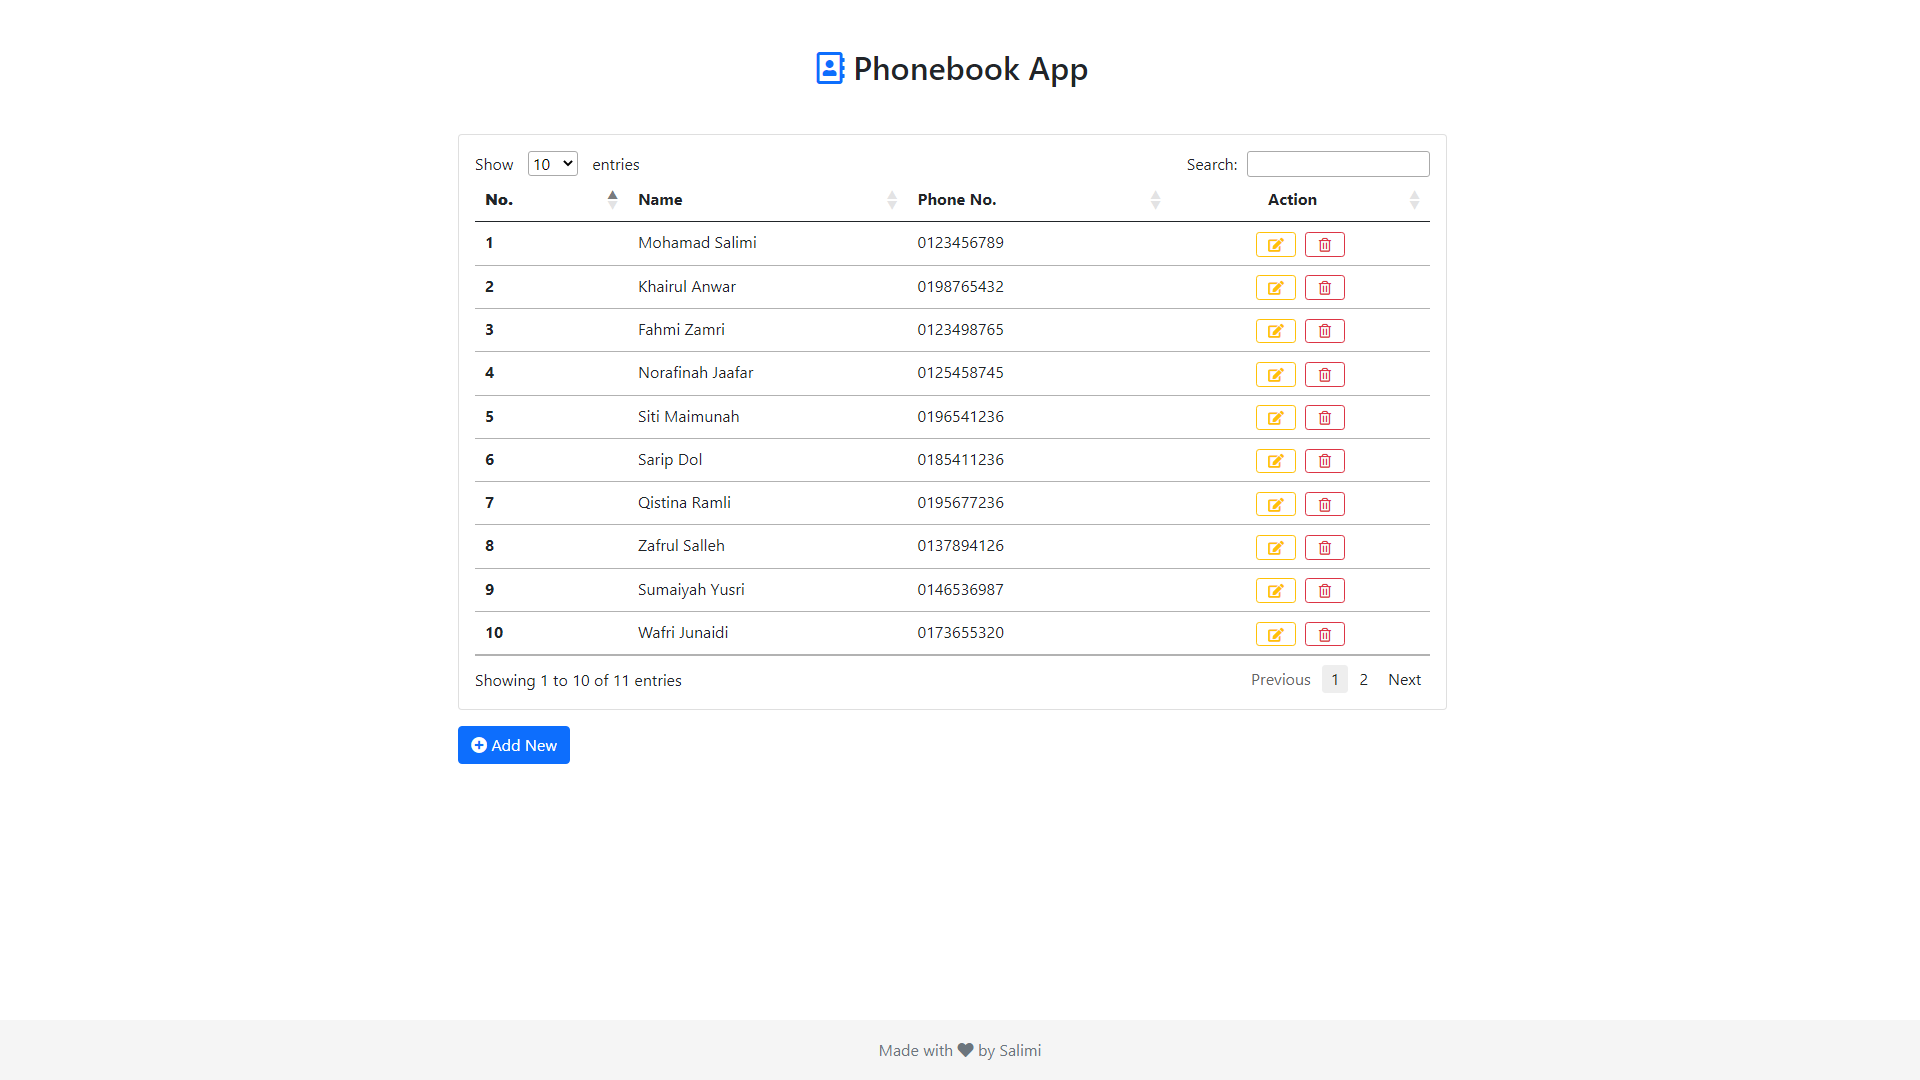
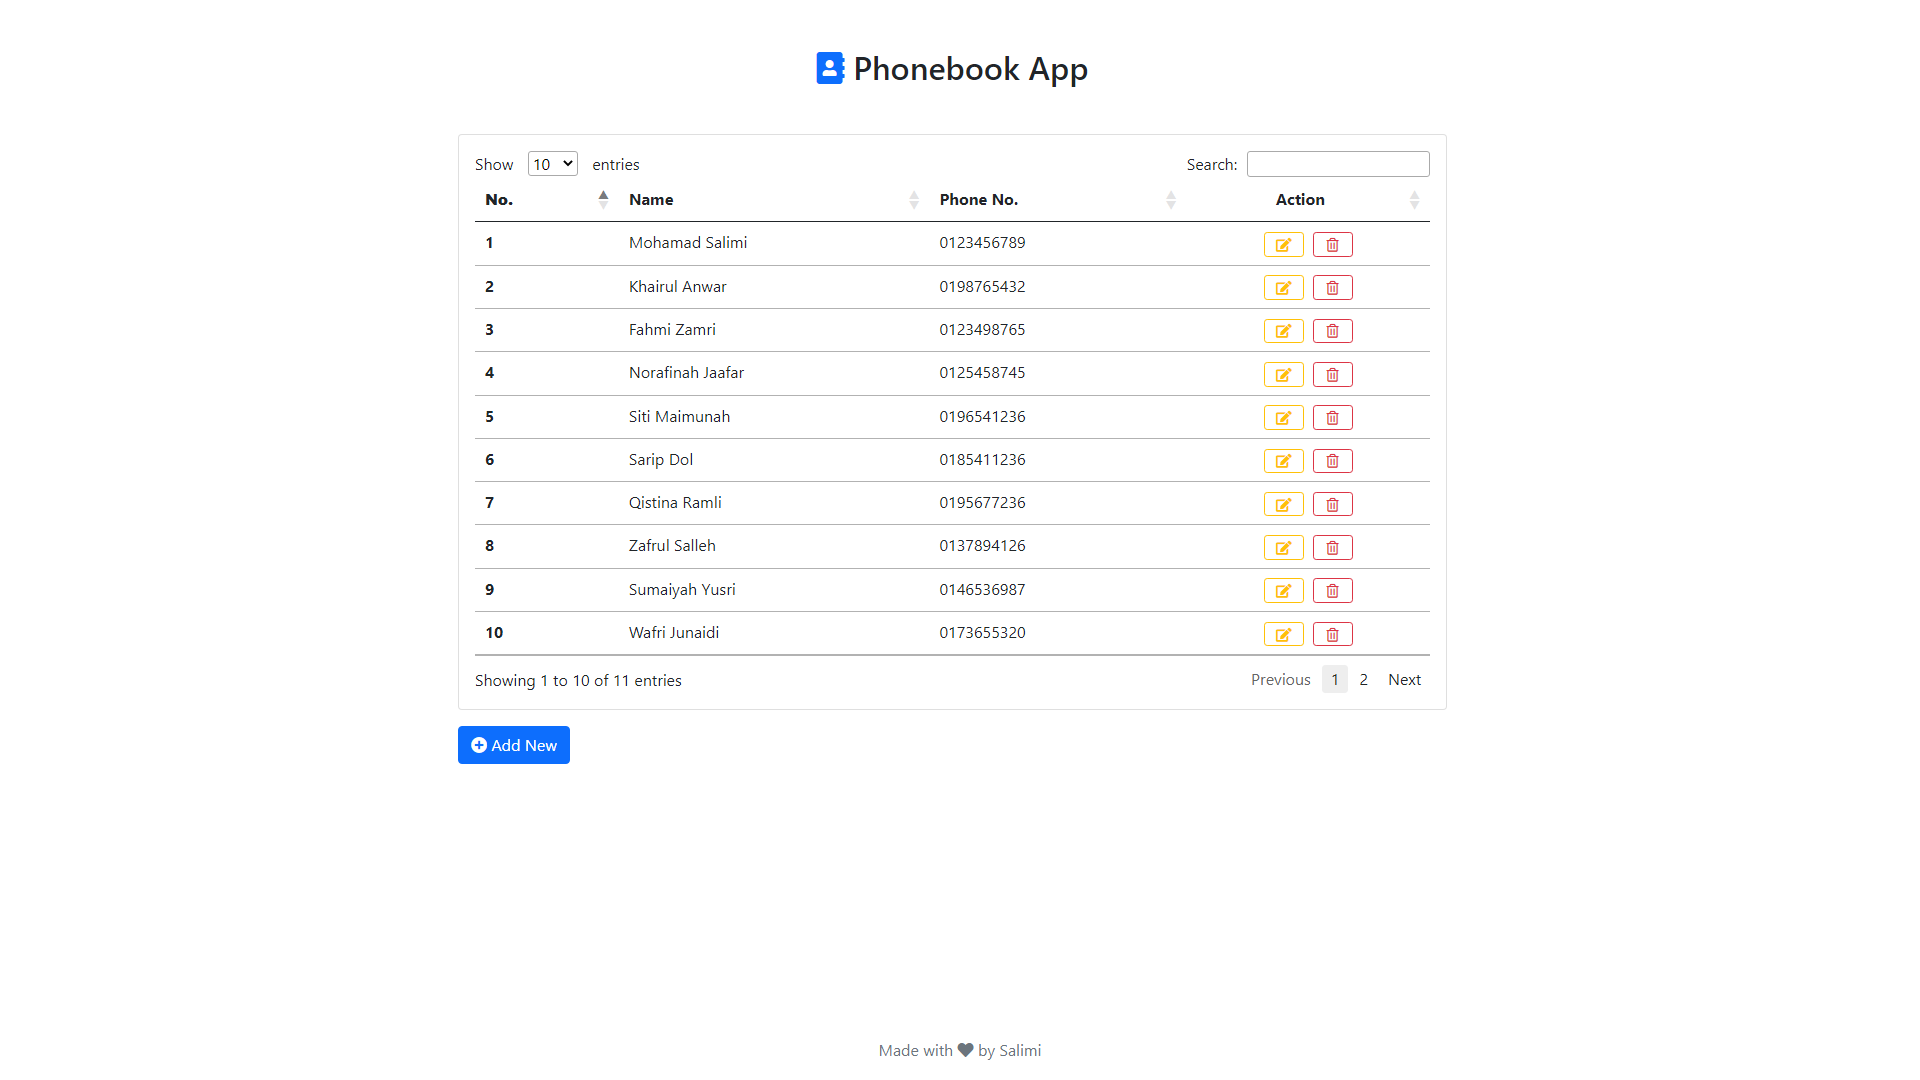
Update screenshots

diff --git a/assets/css/style.css b/assets/css/style.css
@@ -15,7 +15,7 @@ footer {
   width: 100%;
   height: 60px;
   line-height: 60px;
-  background-color: #f5f5f5;
+  /* background-color: #f5f5f5; */
 }
 
 .footer-text {
